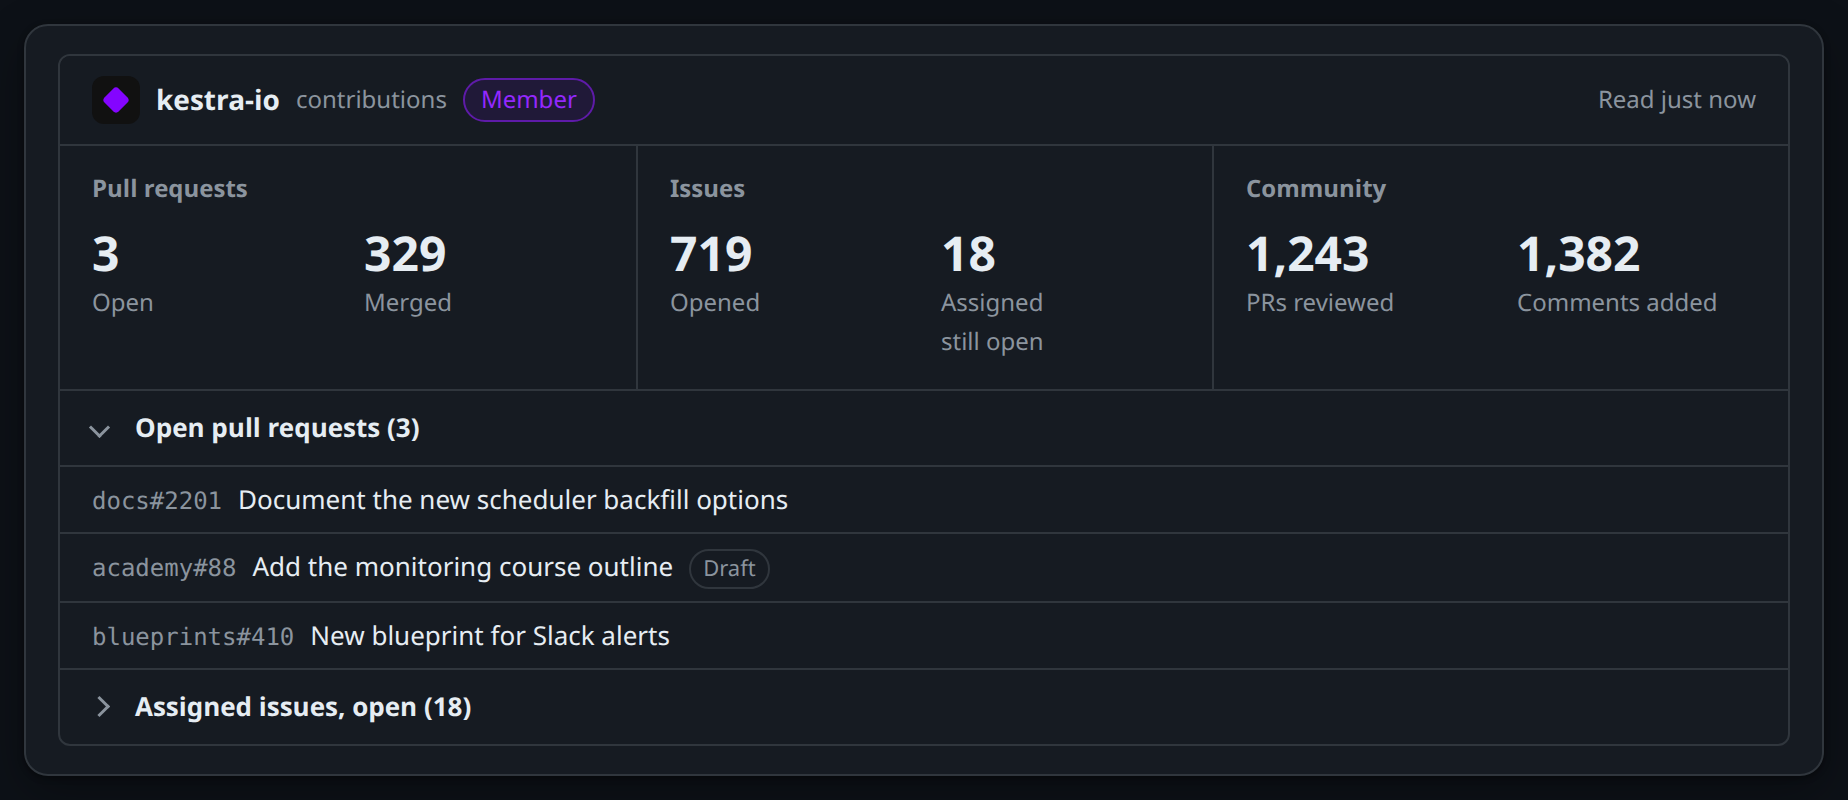
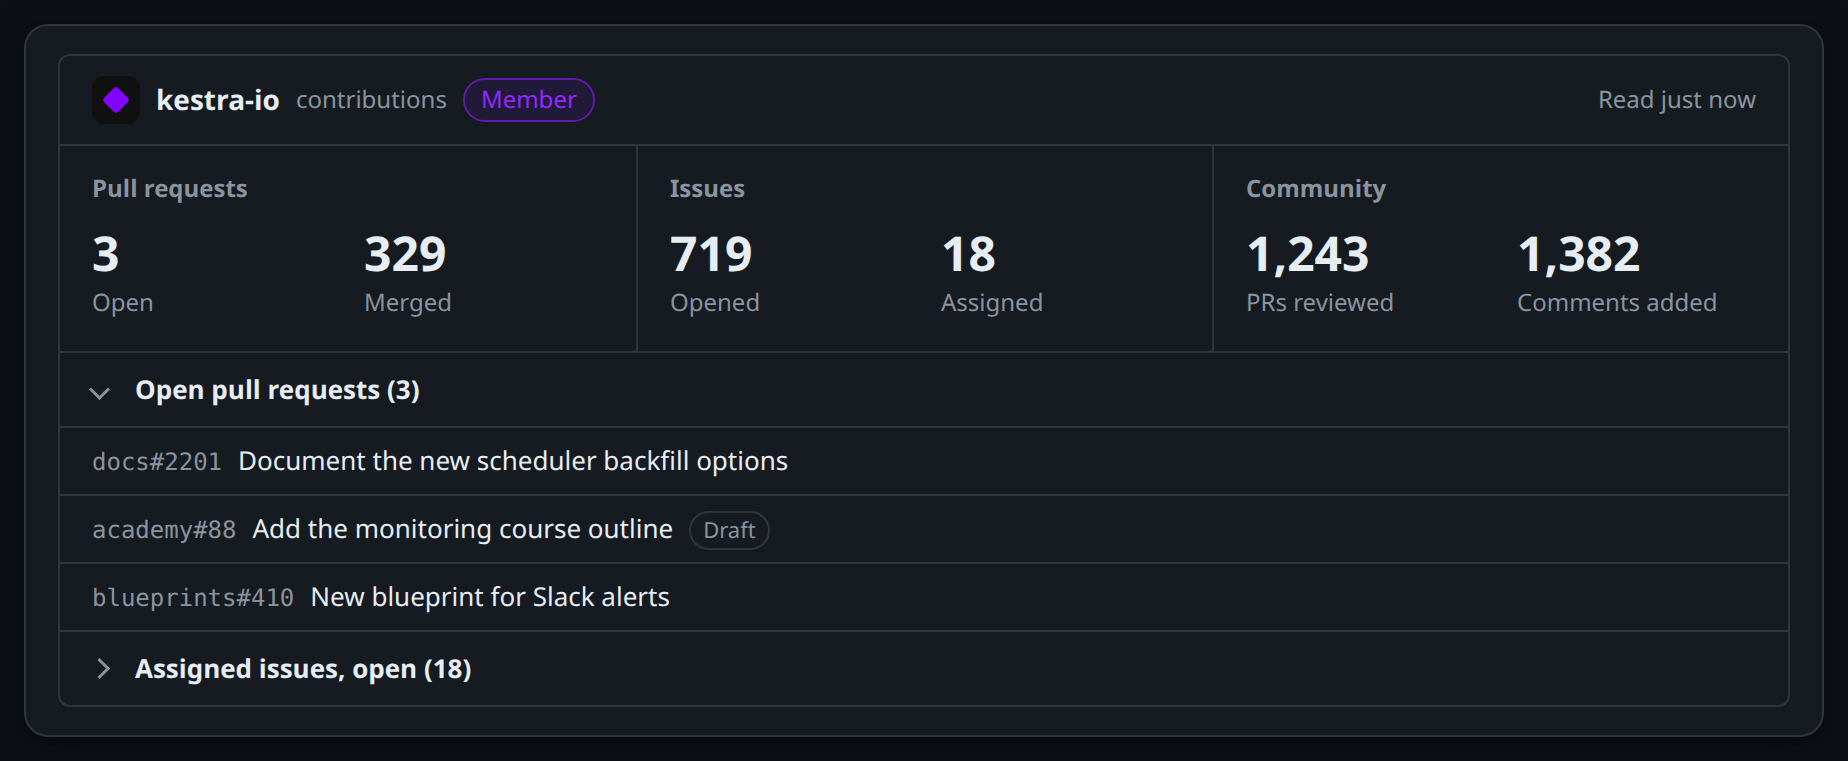
fix(profiles): keep the assigned tile to one line
The assigned tile carried a second line saying still open, which made it taller than its neighbours.

- Drop the note under the assigned tile and keep still open in its tooltip
- Update the site mock-up and the example images

diff --git a/docs/index.html b/docs/index.html
@@ -601,7 +601,7 @@
           <div class="hd"><span class="lg"><i></i></span><span class="ti">kestra-io</span><span class="sb">contributions</span><span class="tg">Member</span><span class="ag">Read just now</span></div>
           <div class="st">
             <div class="gr" style="--n:2"><div class="gh2">Pull requests</div><div class="ts" style="--n:2"><div><span class="nm">3</span><span class="lb">Open</span></div><div><span class="nm">329</span><span class="lb">Merged</span></div></div></div>
-            <div class="gr" style="--n:2"><div class="gh2">Issues</div><div class="ts" style="--n:2"><div><span class="nm">719</span><span class="lb">Opened</span></div><div><span class="nm">18</span><span class="lb">Assigned</span><span class="lb">still open</span></div></div></div>
+            <div class="gr" style="--n:2"><div class="gh2">Issues</div><div class="ts" style="--n:2"><div><span class="nm">719</span><span class="lb">Opened</span></div><div><span class="nm">18</span><span class="lb">Assigned</span></div></div></div>
             <div class="gr" style="--n:2"><div class="gh2">Community</div><div class="ts" style="--n:2"><div><span class="nm">1,243</span><span class="lb">PRs reviewed</span></div><div><span class="nm">1,382</span><span class="lb">Comments added</span></div></div></div>
           </div>
           <div class="wk"><div class="acc">Open pull requests (3)</div><div class="wl">

diff --git a/content.js b/content.js
@@ -1380,7 +1380,7 @@
     ]],
     ["Issues", [
       ["Opened", "issues", "Issues opened by this person", (l) => `is:issue author:${l}`],
-      ["Assigned", "assignedOpen", "Issues assigned to this person that are still open", (l) => `is:issue is:open assignee:${l}`, () => "still open"]
+      ["Assigned", "assignedOpen", "Issues assigned to this person that are still open", (l) => `is:issue is:open assignee:${l}`]
     ]],
     ["Community", [
       ["PRs reviewed", "reviewed", "Pull requests by other people that this person reviewed", (l) => `is:pr reviewed-by:${l} -author:${l}`],
